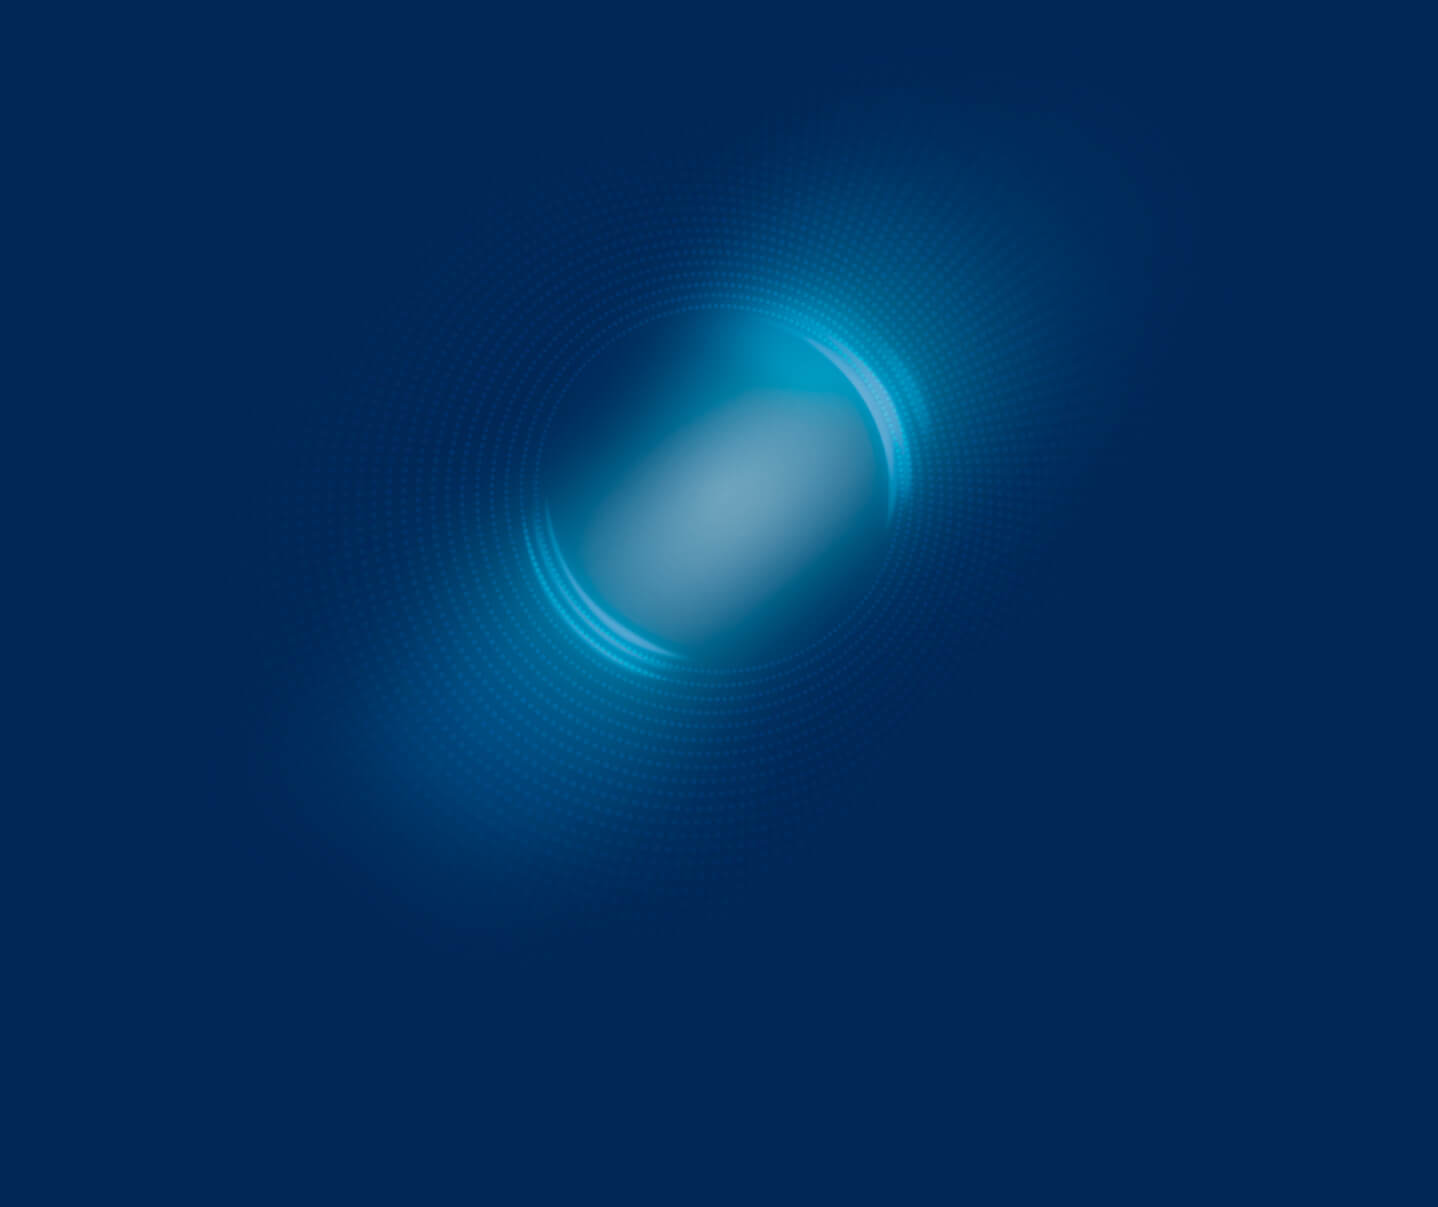
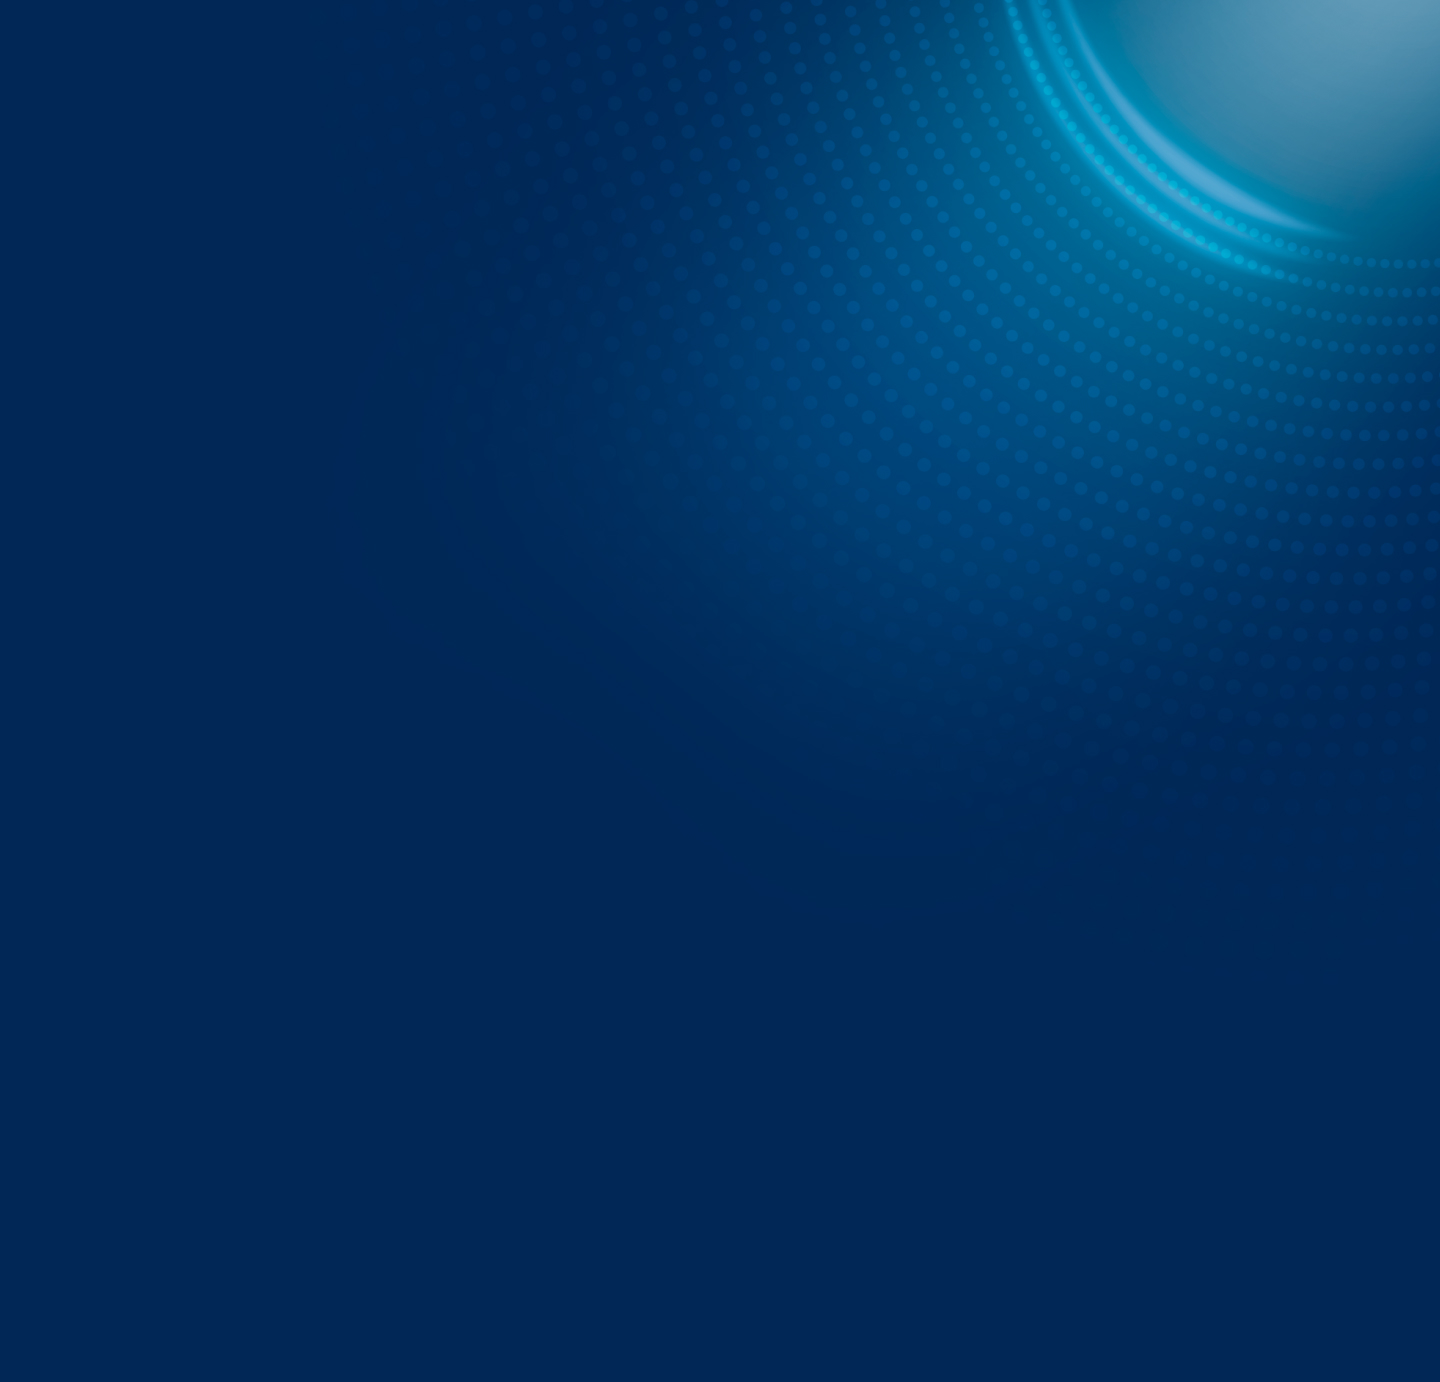
update: background and subline changed

Changed region(s): [[0.5202, 0.0, 1.0, 0.4598], [0.2448, 0.2146, 0.6732, 0.7051]]

diff --git a/app/page.tsx b/app/page.tsx
@@ -49,7 +49,7 @@ export default function Home() {
             align="center"
             className="text-white pt-[20px]"
           >
-            Tausche kalte Wintertage gegen Entspannung an sonnigen Stränden und
+            Tausche eintönigen Alltag gegen Entspannung an sonnigen Stränden und
             Schwimmen im türkis-blauen Wasser des Indischen Ozeans. Entdecke
             dabei die vielfältige Natur der Malediven und lass dich in ihren
             Bann ziehen.

diff --git a/app/styles/template.css b/app/styles/template.css
@@ -6,8 +6,7 @@ body {
 .bg-spin,
 header {
   background-image: url('/assets/images/header-bg.jpg');
-  background-size: cover;
   background-repeat: no-repeat;
-  background-position: center;
+  background-position: top right;
   background-color: #0c2753;
 }
